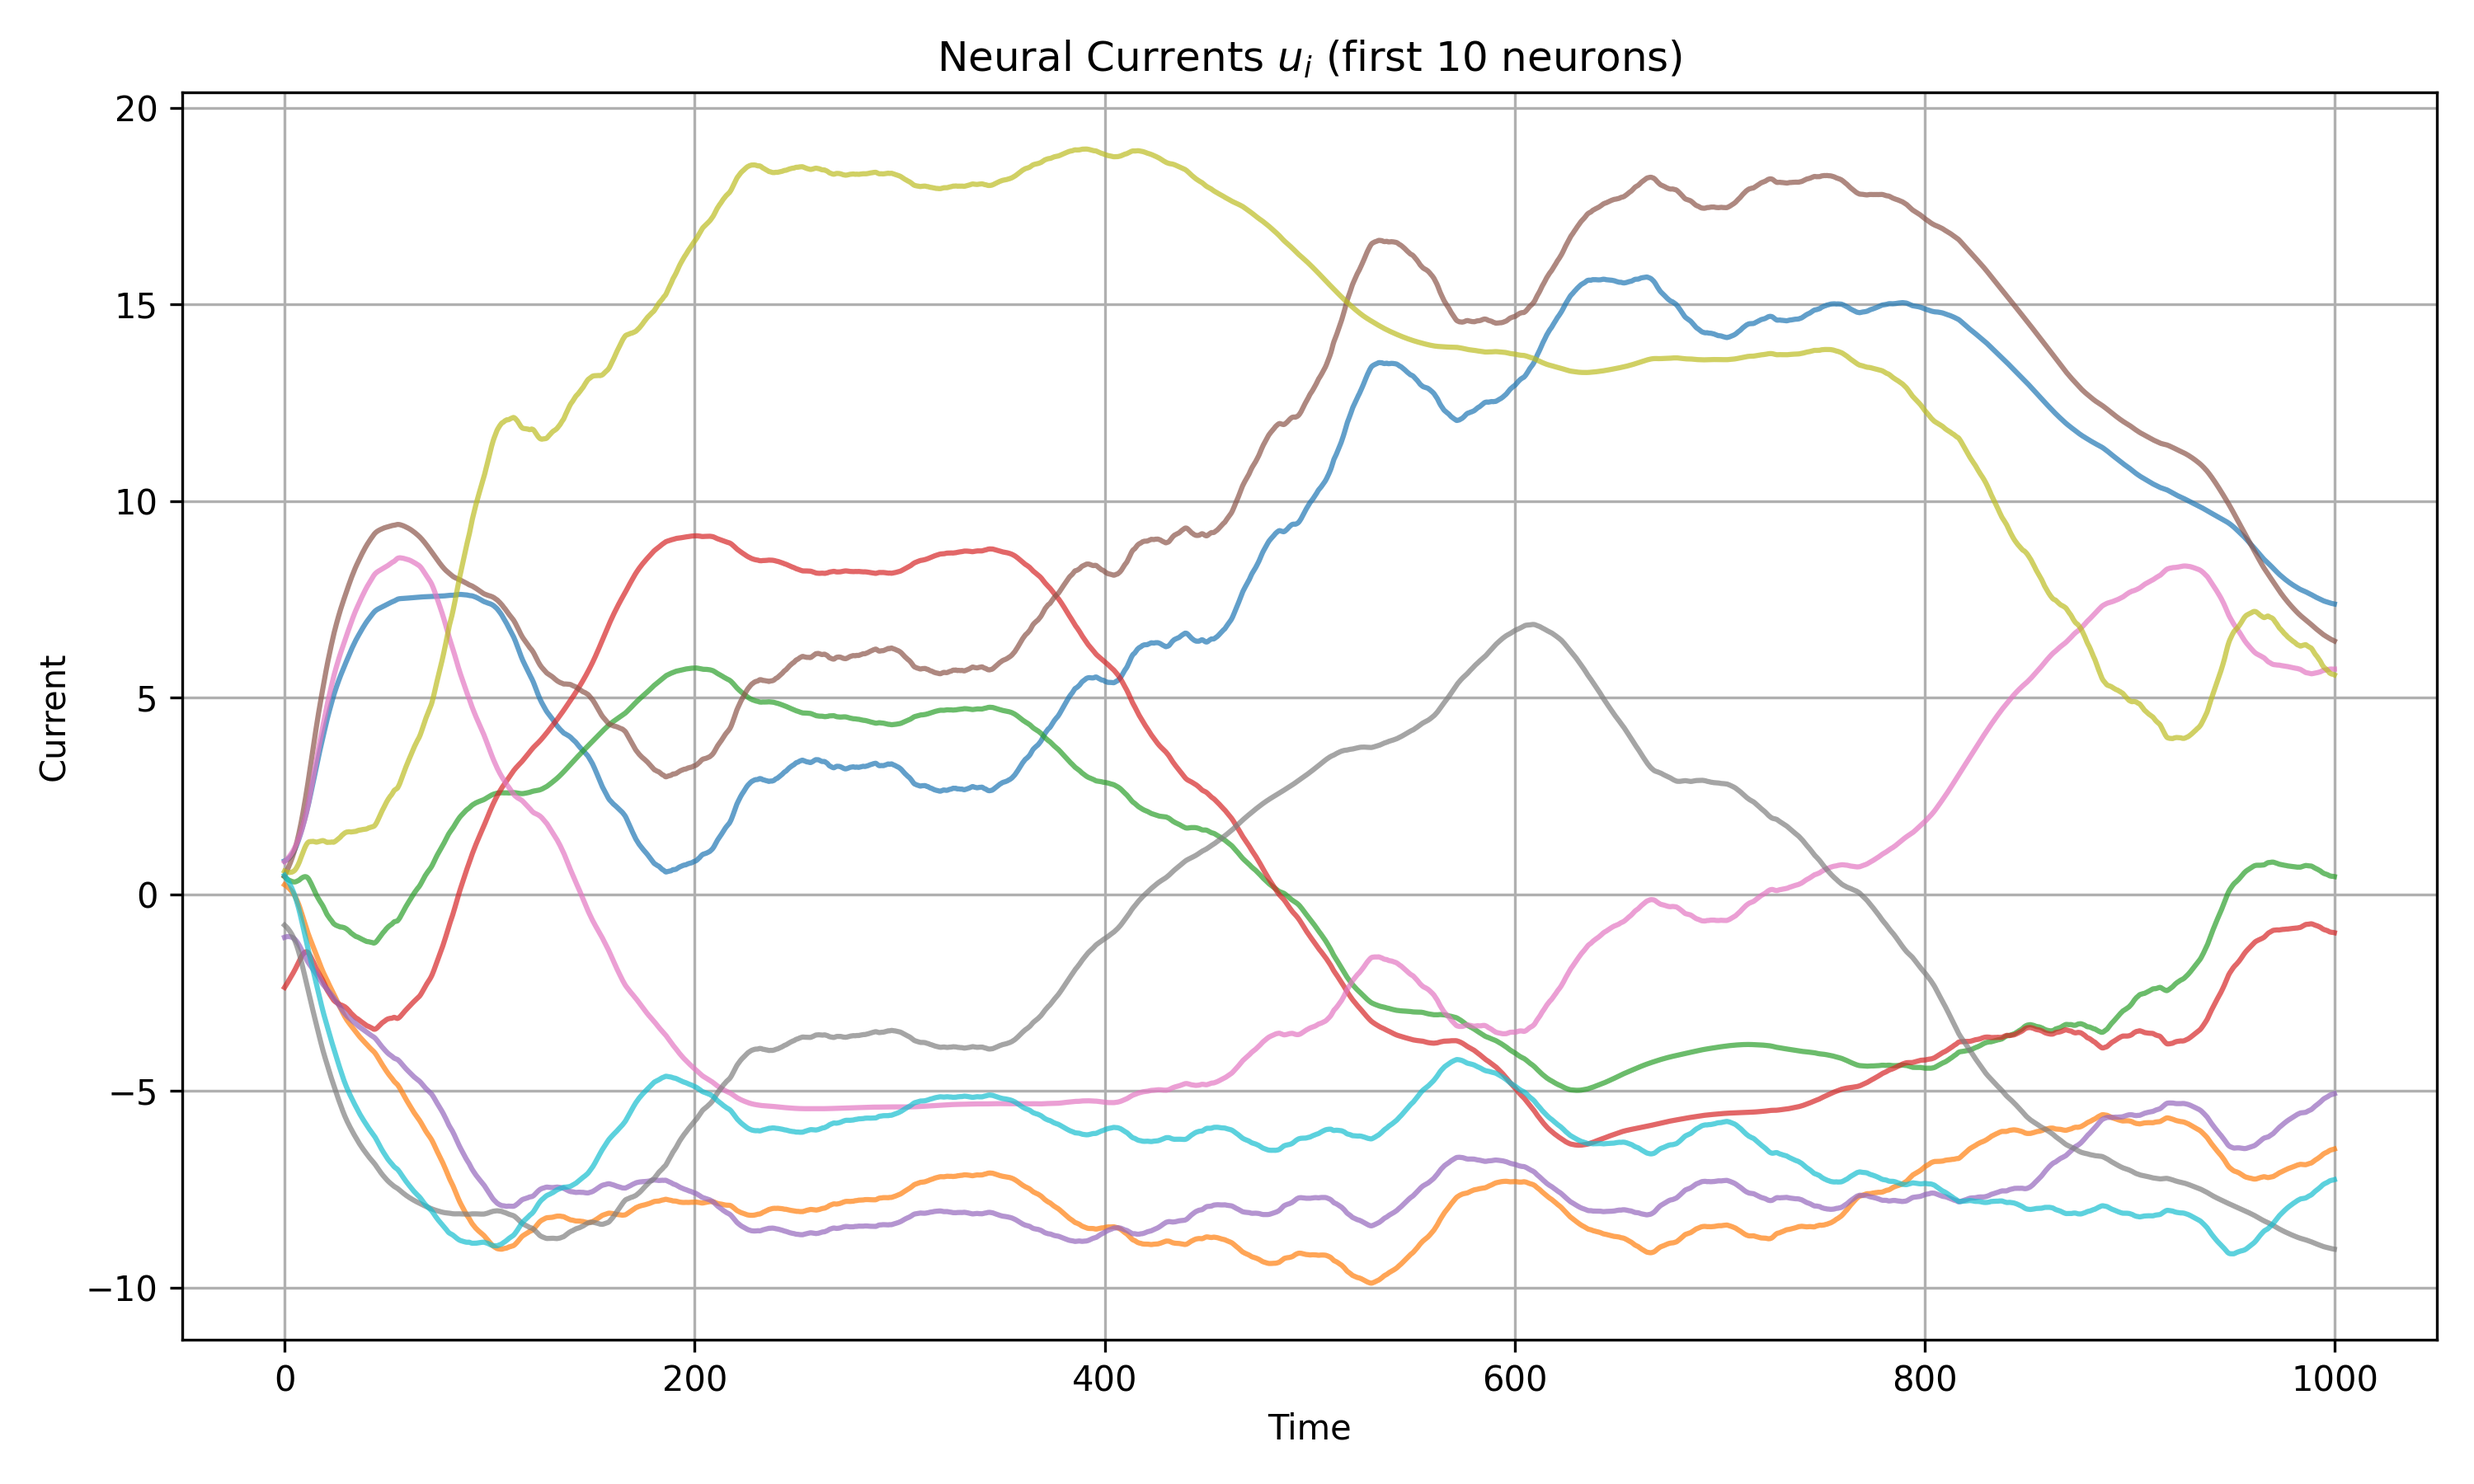
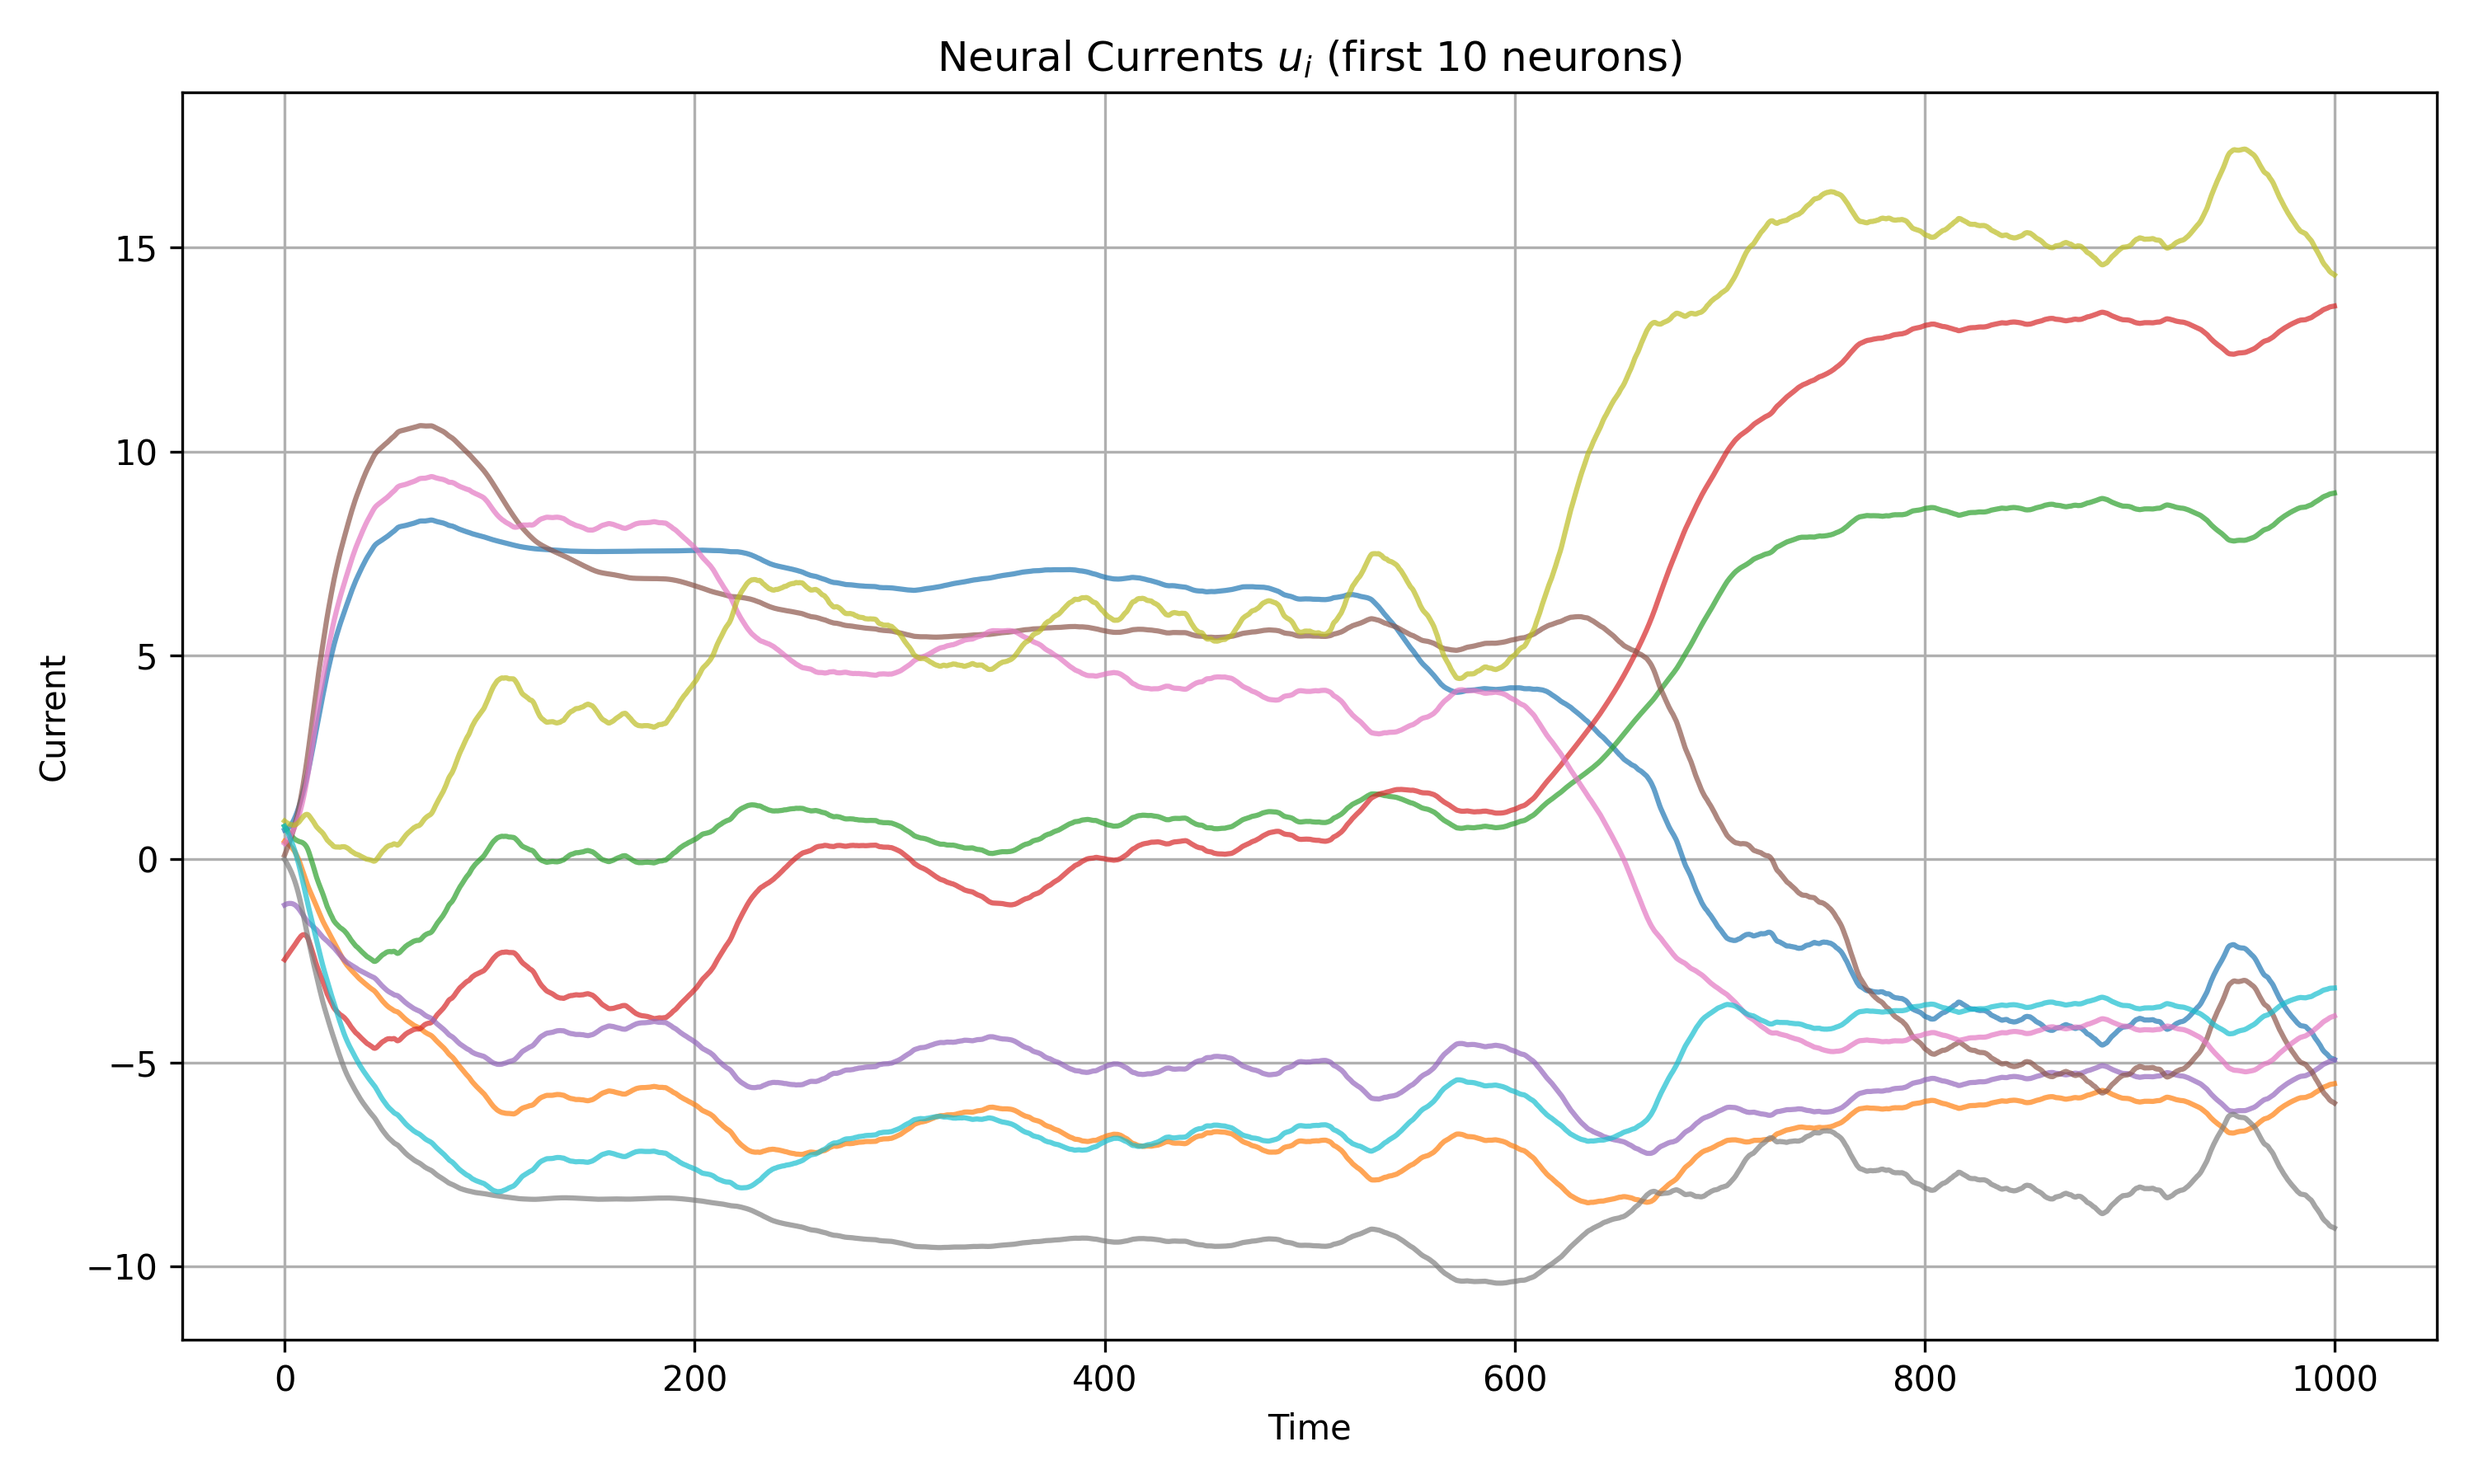
use_g addition

diff --git a/src/main.py b/src/main.py
@@ -8,6 +8,7 @@ All parameters are configured in parameters.py - edit that file to change simula
 import os
 import numpy as np
 import matplotlib.pyplot as plt
+from sympy import use
 from modules.connectivity import generate_connectivity_matrix, plot_matrix
 from modules.dynamics import simulate_network, calculate_pattern_overlaps
 from modules.energy import compute_energy
@@ -57,6 +58,7 @@ from parameters import (
     use_symmetric_only,
     model_type,
     use_numba,
+    use_g,
     use_ou,
     tau_zeta,
     zeta_bar,
@@ -198,7 +200,7 @@ def main():
             print("No patterns available. Using random initialization.")
     else:  # Near Memory Pattern
         if p > 0:
-            pattern = eta[pattern_idx % p]
+            pattern = eta[pattern_idx % p] # Getting the pattern based on index
             # Add noise scaled relative to pattern magnitude
             pattern_std = np.std(pattern)
             noise = np.random.normal(0, noise_level * pattern_std, N)
@@ -300,7 +302,8 @@ def main():
                                               phi_params,
                                               g_type,
                                               g_params,
-                                              use_numba=use_numba)
+                                              use_numba=use_numba,
+                                              use_g=use_g)
         print(f"\nFinal pattern overlaps:")
         for i in range(p):
             print(f"  Pattern {i+1}: {overlaps[-1, i]:.4f}")
@@ -345,6 +348,7 @@ def main():
         'apply_phi_to_patterns': apply_phi_to_patterns,
         'apply_er_to_asymmetric': apply_er_to_asymmetric,
         'use_ou': use_ou,
+        'use_g': use_g,
         'tau_zeta': tau_zeta if use_ou else None,  # Only include if using OU
         'zeta_bar': zeta_bar if use_ou else None,  # Only include if using OU
         'sigma_zeta': sigma_zeta if use_ou else None,  # Only include if using OU
@@ -397,7 +401,13 @@ def main():
     print(f"Saved: time, neural_currents, firing_rates, ou_process, connectivity matrices, memory_patterns")
     if p > 0 and overlaps is not None:
         print(f"Saved: pattern_overlaps")
-    
+        if use_g:
+            print('Overlaps calculated using g function')
+        else:
+            print('Overlaps calculated using default function')
+    else:
+        print(f"No patterns available, skipping overlaps saving.")
+
     # Create plot for Gaussian distribution and activation functions
     fig3, ax = plt.subplots(1, 1, figsize=(10, 6))
 
@@ -625,7 +635,7 @@ def main():
     overlaps_path = os.path.join(npy_dir, "pattern_overlaps.npy")
     original_symm_path = os.path.join(npy_dir, "connectivity_symmetric.npy")
     original_asymm_path = os.path.join(npy_dir, "connectivity_asymmetric.npy")
-    history_path = os.path.join(npy_dir, "firing_rates.npy")
+    history_path = os.path.join(npy_dir, "neural_currents.npy")
     W, h = np.load(connectivity_path), np.load(history_path)
     W_symm = np.load(original_symm_path)
     W_asymm = np.load(original_asymm_path)

diff --git a/src/modules/numba_dynamics.py b/src/modules/numba_dynamics.py
@@ -201,9 +201,9 @@ def simulate_network_numba(W_S, W_A, initial_condition, n_steps, dt, tau,
     return u
 
 # Numba-optimized pattern overlap calculation
-@jit('float64[:,:](float64[:,:], float64[:,:], float64[:], float64[:], int64, int64)', nopython=True, cache=True, parallel=True)
+@jit('float64[:,:](float64[:,:], float64[:,:], float64[:], float64[:], int64, int64, bool)', nopython=True, cache=True, parallel=True)
 def calculate_pattern_overlaps_numba(u, patterns, phi_params, g_params,
-                                     phi_type, g_type):
+                                     phi_type, g_type, use_g=True):
     """
     Numba-optimized pattern overlap calculation
     
@@ -213,6 +213,8 @@ def calculate_pattern_overlaps_numba(u, patterns, phi_params, g_params,
         0 = sigmoid, 1 = relu
     g_type : int
         0 = sigmoid, 1 = step
+    use_g : bool
+        Whether to apply the g function to patterns (default: True)
     """
     n_timepoints, n_neurons = u.shape
     n_patterns = patterns.shape[0]
@@ -247,21 +249,29 @@ def calculate_pattern_overlaps_numba(u, patterns, phi_params, g_params,
         
         for p in range(n_patterns):
             g_phi_eta = g_phi_patterns[p, :]
-            
+            phi_eta = phi_patterns[p, :]
             # Calculate variances
             var_g_phi_eta = np.var(g_phi_eta)
             var_r = np.var(r)
-            
-            if var_g_phi_eta > 1e-10 and var_r > 1e-10:
-                # Calculate covariance manually
-                mean_g = np.mean(g_phi_eta)
-                mean_r = np.mean(r)
-                cov = np.mean((g_phi_eta - mean_g) * (r - mean_r))
-                
-                # Calculate overlap
-                overlaps[t, p] = cov / np.sqrt(var_g_phi_eta * var_r)
+            var_phi_eta = np.var(phi_eta)
+
+            if use_g:
+                if var_g_phi_eta > 1e-10 and var_r > 1e-10:
+                    # Calculate covariance manually
+                    mean_g = np.mean(g_phi_eta)
+                    mean_r = np.mean(r)
+                    cov = np.mean((g_phi_eta - mean_g) * (r - mean_r))
+
+                    # Calculate overlap
+                    overlaps[t, p] = cov / np.sqrt(var_g_phi_eta * var_r)
+                else:
+                    overlaps[t, p] = 0.0
             else:
-                overlaps[t, p] = 0.0
+                if var_phi_eta > 1e-10 and var_r > 1e-10:
+                    cov_phi_eta_r = np.cov(phi_eta, r)[0, 1]
+                    overlaps[t, p] = cov_phi_eta_r / np.sqrt(var_phi_eta * var_r)
+                else:
+                        overlaps[t, p] = 0.0
     
     return overlaps
 

diff --git a/src/modules/dynamics.py b/src/modules/dynamics.py
@@ -401,7 +401,7 @@ def _simulate_network_numba_wrapper(W_S, W_A, t_span, dt, tau, activation_type,
     
     return t, u, zeta_output
 
-def calculate_pattern_overlaps(u, patterns, phi_function_type, phi_params, g_function_type, g_params, use_numba=True):
+def calculate_pattern_overlaps(u, patterns, phi_function_type, phi_params, g_function_type, g_params, use_numba=True, use_g=True):
     """Calculate covariance-based overlaps between network states and memory patterns
     
     Overlap definition: cov(g(φ(η)), r) / sqrt(var(g(φ(η))) * var(r))
@@ -429,6 +429,8 @@ def calculate_pattern_overlaps(u, patterns, phi_function_type, phi_params, g_fun
         Parameters for g function
     use_numba : bool
         Whether to use Numba optimization for large networks
+    use_g : bool
+        Whether to apply the g function to patterns (default: True)
     
     Returns:
     --------
@@ -540,19 +542,29 @@ def calculate_pattern_overlaps(u, patterns, phi_function_type, phi_params, g_fun
         for p in range(n_patterns):
             # Get g(φ(η)) for pattern p
             g_phi_eta = g_phi_patterns[p, :]
-            
+            # Get φ(η) for pattern p
+            phi_eta = phi_patterns[p, :]
+
             # Calculate variances
             var_g_phi_eta = np.var(g_phi_eta)
+            var_phi_eta = np.var(phi_eta)
             var_r = np.var(r)
-            
-            if var_g_phi_eta > 1e-10 and var_r > 1e-10:
-                # Calculate covariance between g(φ(η)) and r
-                cov_g_phi_eta_r = np.cov(g_phi_eta, r)[0, 1]
-                
-                # Calculate overlap using corrected correlation definition
-                overlaps[t, p] = cov_g_phi_eta_r / np.sqrt(var_g_phi_eta * var_r)
+            if use_g:
+                if var_g_phi_eta > 1e-10 and var_r > 1e-10:
+                    # Calculate covariance between g(φ(η)) and r
+                    cov_g_phi_eta_r = np.cov(g_phi_eta, r)[0, 1]
+
+                    # Calculate overlap using corrected correlation definition
+                    overlaps[t, p] = cov_g_phi_eta_r / np.sqrt(var_g_phi_eta * var_r)
+                else:
+                    overlaps[t, p] = 0.0
             else:
-                overlaps[t, p] = 0.0
+                # If not using g, just use φ(η) directly
+                if var_phi_eta > 1e-10 and var_r > 1e-10:
+                    cov_phi_eta_r = np.cov(phi_eta, r)[0, 1]
+                    overlaps[t, p] = cov_phi_eta_r / np.sqrt(var_phi_eta * var_r)
+                else:
+                    overlaps[t, p] = 0.0
 
     return overlaps
 

diff --git a/src/parameters.py b/src/parameters.py
@@ -60,11 +60,12 @@ dt = 0.2                # Time step for simulation output (increased for efficie
 
 # Performance optimization
 use_numba = False        # Enable Numba JIT compilation for large networks (N > 1000)
+use_g = True  # Whether to apply g function to patterns, default is True in Recanatesi et al. 
 
 # Initial condition settings
 init_cond_type = "Near Memory Pattern"  # Options: "Random", "Zero", "Memory Pattern", "Near Memory Pattern"
 pattern_idx = 0         # Which pattern to use (0-indexed) if using pattern-based init
-noise_level = 0.1       # Noise level if using "Near Memory Pattern" init
+noise_level = 0.5       # Noise level if using "Near Memory Pattern" init
 
 # Simulation options
 use_symmetric_only = False   # Whether to use only the symmetric component (W^S)
@@ -73,7 +74,7 @@ model_type = "recanatesi"   # Dynamics model: "recanatesi" or "brunel"
 # Ornstein-Uhlenbeck process parameters for ζ(t)
 use_ou = True          # Whether to use Ornstein-Uhlenbeck process for ζ(t)
 tau_zeta = 20.0          # OU time constant
-zeta_bar = 0.7          # OU mean value
+zeta_bar = 0.4          # OU mean value
 sigma_zeta = 0.3        # OU noise intensity
 constant_zeta = 0.5     # Constant ζ value when OU is not used
 

diff --git a/src/modules/energy.py b/src/modules/energy.py
@@ -20,5 +20,5 @@ def compute_energy(W, h):
     # Total energy
     E_mat = h @ W @ h.T
     # Sum over the 0 axis to get a scalar
-    E_traj = np.sum(E_mat, axis=0)
+    E_traj = - np.sum(E_mat, axis=0)
     return E_traj
